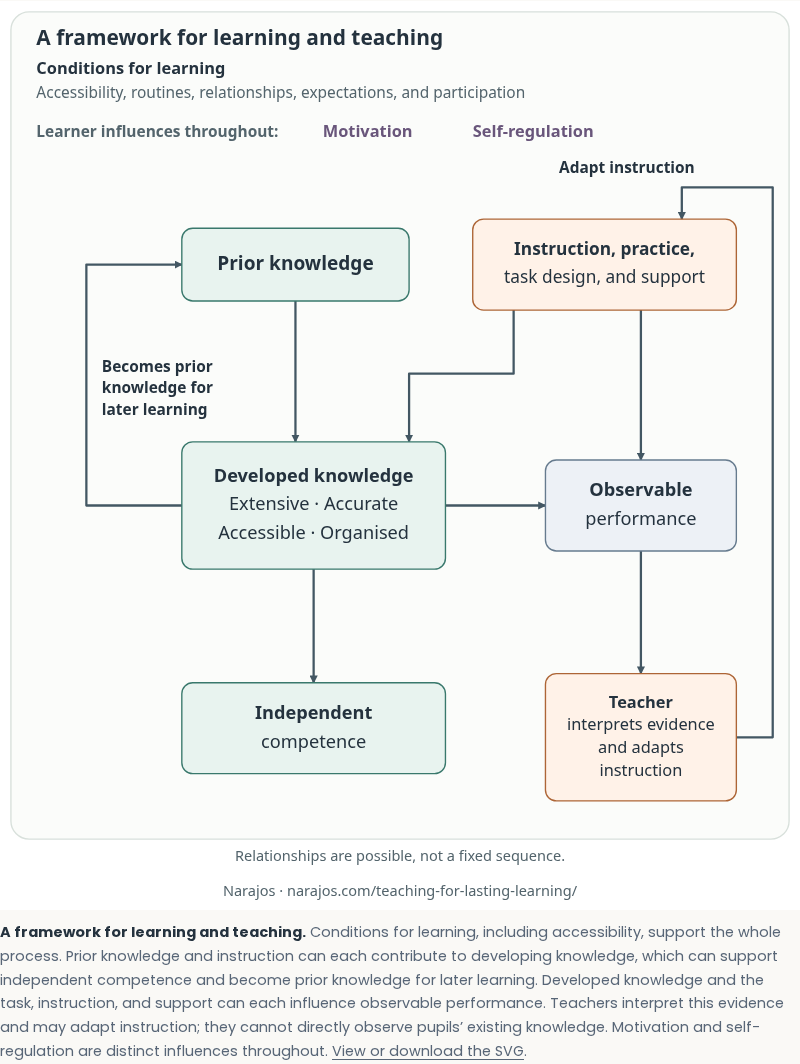
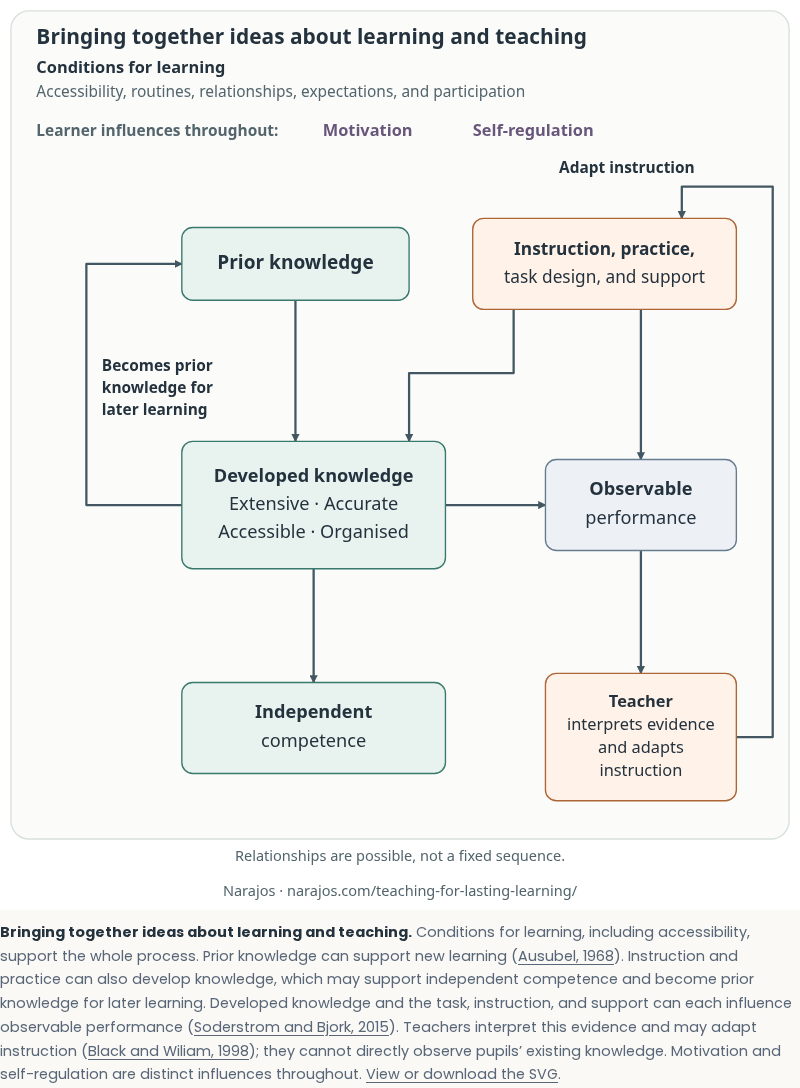
Clarify article voice and diagram attribution

diff --git a/public/teaching-for-lasting-learning/index.html b/public/teaching-for-lasting-learning/index.html
@@ -24,14 +24,14 @@
 <p>An important distinction is that between learning and performance (<a href="#ref-soderstrom">Soderstrom and Bjork, 2015</a>). Pupils may complete a task successfully during a lesson but struggle to do something similar a week later. Equally, pupils who find an activity difficult may still be learning from it.</p>
 <p>I consider four characteristics of knowledge particularly important: how much pupils know, how accurate their knowledge is, how readily they can retrieve it, and how well they can connect different ideas.</p>
 <p>Alongside developing knowledge, I believe teachers have an important role in helping pupils become more independent learners. This involves teaching pupils how to evaluate their understanding, recognise gaps in their knowledge, and make better decisions about how they study.</p>
-<p>Drawing on educational research and my experiences as a teacher, I have developed a framework for understanding how these aspects of learning and teaching interact. I am particularly interested in identifying what is limiting pupils’ learning and where teachers can make the greatest difference.</p>
-<p>The principles presented here inform both my classroom practice and the design of the learning resources on this website. Although many of the same principles apply to independent learning, a website cannot replicate the professional judgement of a classroom teacher.</p>
-<figure class="article-figure" id="figure-performance"><picture><source media="(max-width: 600px)" srcset="/assets/teaching-for-lasting-learning/performance-mobile.svg" width="288" height="620"><img src="/assets/teaching-for-lasting-learning/performance-desktop.svg" width="880" height="390" alt="Learning and task conditions can both influence observable performance."></picture><figcaption><strong>Learning and performance.</strong> What pupils do is observable performance. It can provide evidence of learning, but the task, cues, timing, and support also influence what pupils can show. <a href="/assets/teaching-for-lasting-learning/performance-desktop.svg" aria-label="View or download SVG: Learning and performance">View or download the SVG</a>.</figcaption></figure>
+<p>Drawing on educational research and my experiences as a teacher, I have brought these ideas together to help me think about how different aspects of learning and teaching interact. I am particularly interested in identifying what is limiting pupils’ learning and where teachers can make the greatest difference.</p>
+<p>The eight principles presented here inform both my classroom practice and the design of the learning resources on this website. Although many of the same principles apply to independent learning, a website cannot replicate the professional judgement of a classroom teacher.</p>
+<figure class="article-figure" id="figure-performance"><picture><source media="(max-width: 600px)" srcset="/assets/teaching-for-lasting-learning/performance-mobile.svg" width="288" height="620"><img src="/assets/teaching-for-lasting-learning/performance-desktop.svg" width="880" height="390" alt="Learning and task conditions can both influence observable performance."></picture><figcaption><strong>Learning and performance.</strong> What pupils do is observable performance. It can provide evidence of learning, but the task, cues, timing, and support also influence what pupils can show (<a href="#ref-soderstrom">Soderstrom and Bjork, 2015</a>). <a href="/assets/teaching-for-lasting-learning/performance-desktop.svg" aria-label="View or download SVG: Learning and performance">View or download the SVG</a>.</figcaption></figure>
 
 <section id="framework"><h2>Thinking about learning and teaching together</h2>
-<p>The diagram below is a way of organising my thinking, rather than a model that has itself been tested. It brings together several relationships that matter when I plan and adapt teaching.</p>
+<p>The diagram below brings together established ideas that help me plan and adapt my teaching. Like the other diagrams in this article, it is a simplified illustration of relationships discussed in educational research.</p>
 <p>What pupils already know affects how they make sense of new information. Instruction and practice can develop that knowledge, which then becomes part of the foundation for later learning. Teachers use what pupils say, write, and do as evidence, while recognising that performance is an imperfect guide to learning. Task design and support can also affect what pupils are able to show.</p>
-<figure class="article-figure" id="figure-framework"><picture><source media="(max-width: 600px)" srcset="/assets/teaching-for-lasting-learning/framework-mobile.svg" width="288" height="1168"><img src="/assets/teaching-for-lasting-learning/framework-desktop.svg" width="880" height="1000" alt="Prior knowledge, instruction and practice, developed knowledge, independent competence, observed performance, teacher interpretation, motivation, and self-regulation within conditions for learning."></picture><figcaption><strong>A framework for learning and teaching.</strong> Conditions for learning, including accessibility, support the whole process. Prior knowledge and instruction can each contribute to developing knowledge, which can support independent competence and become prior knowledge for later learning. Developed knowledge and the task, instruction, and support can each influence observable performance. Teachers interpret this evidence and may adapt instruction; they cannot directly observe pupils’ existing knowledge. Motivation and self-regulation are distinct influences throughout. <a href="/assets/teaching-for-lasting-learning/framework-desktop.svg" aria-label="View or download SVG: A framework for learning and teaching">View or download the SVG</a>.</figcaption></figure>
+<figure class="article-figure" id="figure-framework"><picture><source media="(max-width: 600px)" srcset="/assets/teaching-for-lasting-learning/framework-mobile.svg" width="288" height="1192"><img src="/assets/teaching-for-lasting-learning/framework-desktop.svg" width="880" height="1000" alt="Prior knowledge, instruction and practice, developed knowledge, independent competence, observed performance, teacher interpretation, motivation, and self-regulation within conditions for learning."></picture><figcaption><strong>Bringing together ideas about learning and teaching.</strong> Conditions for learning, including accessibility, support the whole process. Prior knowledge can support new learning (<a href="#ref-ausubel">Ausubel, 1968</a>). Instruction and practice can also develop knowledge, which may support independent competence and become prior knowledge for later learning. Developed knowledge and the task, instruction, and support can each influence observable performance (<a href="#ref-soderstrom">Soderstrom and Bjork, 2015</a>). Teachers interpret this evidence and may adapt instruction (<a href="#ref-black">Black and Wiliam, 1998</a>); they cannot directly observe pupils’ existing knowledge. Motivation and self-regulation are distinct influences throughout. <a href="/assets/teaching-for-lasting-learning/framework-desktop.svg" aria-label="View or download SVG: Bringing together ideas about learning and teaching">View or download the SVG</a>.</figcaption></figure>
 <p>The arrows show relationships worth considering, not a fixed teaching sequence or guaranteed outcomes. Conditions for learning support the whole process. Motivation and self-regulation are distinct influences; neither develops in just one way.</p>
 </section>
 <section id="conditions"><h2>Create the conditions for learning</h2>
@@ -54,7 +54,7 @@
 <section id="independence"><h2>Guide pupils towards independence</h2>
 <p>Explicit instruction makes important thinking visible. I can model how to approach a question, explain a decision, and then guide pupils through a similar problem before expecting them to work more independently (<a href="#ref-rosenshine">Rosenshine, 2012</a>).</p>
 <p>Scaffolding is temporary support that helps a learner complete a task they could not yet manage in the same way alone. It might be a prompt, a partially completed example, or a carefully chosen question (<a href="#ref-wood">Wood, Bruner, and Ross, 1976</a>). I can adjust the challenge of a task and the support I provide separately: a demanding problem can be well supported, and a familiar task can be completed independently.</p>
-<figure class="article-figure" id="figure-challenge-support"><picture><source media="(max-width: 600px)" srcset="/assets/teaching-for-lasting-learning/challenge-support-mobile.svg" width="288" height="590"><img src="/assets/teaching-for-lasting-learning/challenge-support-desktop.svg" width="880" height="600" alt="A two-by-two comparison of higher and lower challenge with higher and lower instructional support."></picture><figcaption><strong>Challenge and support.</strong> Supported stretch, independent stretch, supported foundations, and independent consolidation can all be useful. Challenge is relative to a learner’s current knowledge. Accessibility adjustments are not necessarily temporary scaffolds. <a href="/assets/teaching-for-lasting-learning/challenge-support-desktop.svg" aria-label="View or download SVG: Challenge and support">View or download the SVG</a>.</figcaption></figure>
+<figure class="article-figure" id="figure-challenge-support"><picture><source media="(max-width: 600px)" srcset="/assets/teaching-for-lasting-learning/challenge-support-mobile.svg" width="288" height="590"><img src="/assets/teaching-for-lasting-learning/challenge-support-desktop.svg" width="880" height="600" alt="A two-by-two comparison of higher and lower challenge with higher and lower instructional support."></picture><figcaption><strong>Challenge and instructional support.</strong> This illustration considers challenge and instructional support separately, drawing on work about scaffolding and learner expertise (<a href="#ref-wood">Wood, Bruner, and Ross, 1976</a>; <a href="#ref-kalyuga">Kalyuga et al., 2003</a>). Supported stretch, independent stretch, supported foundations, and independent consolidation can all be useful. Challenge is relative to a learner’s current knowledge. Accessibility adjustments are not necessarily temporary scaffolds. <a href="/assets/teaching-for-lasting-learning/challenge-support-desktop.svg" aria-label="View or download SVG: Challenge and instructional support">View or download the SVG</a>.</figcaption></figure>
 <p>Support should be reduced when evidence suggests that it is no longer needed for the learning goal, rather than according to a fixed timetable. Support that helps one learner may become unnecessary or distracting as their knowledge grows (<a href="#ref-kalyuga">Kalyuga et al., 2003</a>). This does not mean withdrawing an accessibility adjustment that a pupil continues to need.</p>
 <p>On Narajos, worked examples, hints, and guided questions are available in some activities. Their purpose is to help learners make progress towards understanding, not to make every task easy.</p>
 </section>
@@ -65,7 +65,7 @@
 </section>
 <section id="responsive"><h2>Check understanding and respond</h2>
 <p>Assessment becomes formative when evidence of learning is used to make a useful decision about what happens next. A question may reveal that several pupils have chosen the correct answer, but it may not reveal whether they understand the reasoning. I therefore look for patterns across answers and consider alternative explanations before deciding whether to move on, revisit, or change the task (<a href="#ref-black">Black and Wiliam, 1998</a>).</p>
-<figure class="article-figure" id="figure-responsive-teaching"><picture><source media="(max-width: 600px)" srcset="/assets/teaching-for-lasting-learning/responsive-teaching-mobile.svg" width="288" height="700"><img src="/assets/teaching-for-lasting-learning/responsive-teaching-desktop.svg" width="880" height="540" alt="A cycle of eliciting evidence, considering explanations, adapting instruction, and rechecking."></picture><figcaption><strong>Responsive teaching.</strong> Elicit evidence, consider possible explanations, adapt instruction, and recheck. Feedback to pupils is one possible response; formative assessment is the use of evidence to inform what happens next. <a href="/assets/teaching-for-lasting-learning/responsive-teaching-desktop.svg" aria-label="View or download SVG: Responsive teaching">View or download the SVG</a>.</figcaption></figure>
+<figure class="article-figure" id="figure-responsive-teaching"><picture><source media="(max-width: 600px)" srcset="/assets/teaching-for-lasting-learning/responsive-teaching-mobile.svg" width="288" height="700"><img src="/assets/teaching-for-lasting-learning/responsive-teaching-desktop.svg" width="880" height="540" alt="A cycle of eliciting evidence, considering explanations, adapting instruction, and rechecking."></picture><figcaption><strong>Responsive teaching.</strong> Eliciting evidence, considering possible explanations, adapting instruction, and rechecking can help teachers use evidence formatively (<a href="#ref-black">Black and Wiliam, 1998</a>). Feedback to pupils is one possible response; formative assessment is the use of evidence to inform what happens next. <a href="/assets/teaching-for-lasting-learning/responsive-teaching-desktop.svg" aria-label="View or download SVG: Responsive teaching">View or download the SVG</a>.</figcaption></figure>
 <p>Making these decisions calls for secure subject knowledge and <em>pedagogical content knowledge</em>: knowledge of how to explain and teach particular ideas, including the difficulties pupils may encounter (<a href="#ref-shulman">Shulman, 1986</a>).</p>
 <p>Feedback is related to assessment, but it is not the same thing. Providing information is only a beginning: pupils need to interpret it, decide what it means, and use it. For feedback to help, they need to understand the goal, recognise something about their current work, and have an opportunity to act (<a href="#ref-sadler">Sadler, 1989</a>; <a href="#ref-butler">Butler and Winne, 1995</a>). The aim is to improve subsequent learning, not merely to correct a completed piece of work. I also need to check whether my response has helped; repeating the same explanation is not always enough.</p>
 <p>In my article <a href="https://my.chartered.college/impact_article/feedback-is-not-a-gift/">“Feedback is not a gift”</a> (<a href="#ref-narajos">2024</a>), I explored pupils’ engagement with feedback in a particular classroom context. It informs my thinking about pupils’ active role in feedback, but it does not establish that one approach will work everywhere. The EEF similarly emphasises the principles and use of feedback, rather than prescribing a single delivery method (<a href="#ref-eef-feedback">EEF, 2021</a>).</p>
@@ -73,7 +73,7 @@
 </section>
 <section id="motivation"><h2>Build motivation through meaningful success</h2>
 <p>Success can help pupils believe that they are capable of making progress. Self-efficacy is a person’s belief about their ability to carry out a particular task or meet a particular challenge; it is more specific than general confidence. Experience of success is one possible influence on that belief, alongside factors such as observing others and receiving feedback (<a href="#ref-bandura">Bandura, 1977</a>).</p>
-<figure class="article-figure" id="figure-success-motivation"><picture><source media="(max-width: 600px)" srcset="/assets/teaching-for-lasting-learning/success-motivation-mobile.svg" width="288" height="820"><img src="/assets/teaching-for-lasting-learning/success-motivation-desktop.svg" width="880" height="540" alt="A conditional, reciprocal relationship between meaningful success, self-efficacy, motivation, engagement, and further learning."></picture><figcaption><strong>Success and motivation.</strong> Meaningful success may support self-efficacy, motivation, engagement, and further learning, which may in turn support future success. Other influences matter at every point; none of these relationships is guaranteed. <a href="/assets/teaching-for-lasting-learning/success-motivation-desktop.svg" aria-label="View or download SVG: Success and motivation">View or download the SVG</a>.</figcaption></figure>
+<figure class="article-figure" id="figure-success-motivation"><picture><source media="(max-width: 600px)" srcset="/assets/teaching-for-lasting-learning/success-motivation-mobile.svg" width="288" height="820"><img src="/assets/teaching-for-lasting-learning/success-motivation-desktop.svg" width="880" height="540" alt="A conditional, reciprocal relationship between meaningful success, self-efficacy, motivation, engagement, and further learning."></picture><figcaption><strong>Success and motivation.</strong> Meaningful success may support self-efficacy (<a href="#ref-bandura">Bandura, 1977</a>), motivation, engagement, and further learning, which may in turn support future success. Other influences matter at every point; none of these relationships is guaranteed. <a href="/assets/teaching-for-lasting-learning/success-motivation-desktop.svg" aria-label="View or download SVG: Success and motivation">View or download the SVG</a>.</figcaption></figure>
 <p>I want pupils to succeed at worthwhile work, not simply accumulate easy correct answers. That may mean providing enough support for a pupil to attempt a demanding explanation, recognising a sound part of an answer, and making the next step clear. It also means checking that the challenge remains appropriate as knowledge develops.</p>
 <p>Success will not automatically produce motivation, and a pupil’s effort or participation should not be explained by motivation alone. Task design, prior knowledge, relationships, accessibility, and circumstances all matter. On Narajos, sequenced questions and feedback are intended to give learners opportunities to recognise progress, without assuming that the same experience will motivate everyone.</p>
 </section>
@@ -95,7 +95,7 @@
 <details class="diagnostic-scenario"><summary>Only a small proportion of pupils participate in questioning</summary><div><p><strong>Possible explanations:</strong> Pupils may need more thinking time; the question or language may be unclear; or the classroom routine may make answering feel risky.</p><p><strong>Checks:</strong> Collect a brief response from everyone using an accessible method. Compare the pattern after individual thinking time or a change in how the question is presented.</p><p><strong>Possible responses:</strong> Give pupils time to prepare an answer and provide more than one way to respond. Clarify the question or model a first step, while remembering that visible participation is not a complete measure of thought.</p></div></details>
 <details class="diagnostic-scenario"><summary>Pupils receive feedback but do not make effective use of it</summary><div><p><strong>Possible explanations:</strong> Pupils may not understand the feedback; they may not know what action to take; or they may lack the time or knowledge needed to act.</p><p><strong>Checks:</strong> Ask pupils to explain the feedback and identify their next step. Review their subsequent work to see what they changed and whether it helped.</p><p><strong>Possible responses:</strong> Model how to use a piece of feedback and give pupils time to act on it. Clarify the intended improvement or reteach the necessary knowledge, then review the result.</p></div></details>
 </section>
-<section class="article-permission" aria-labelledby="using-diagrams"><h2 id="using-diagrams">Using the diagrams</h2><p>Original Narajos diagrams on this page may be used and shared in non-commercial CPD materials, with attribution to Narajos and a link to this article. Other uses remain subject to the <a href="/terms/">Terms of Use</a>.</p></section>
+<section class="article-permission" aria-labelledby="using-diagrams"><h2 id="using-diagrams">Using the diagrams</h2><p>The diagrams illustrate established ideas, with sources linked in the captions. They may be used and shared in non-commercial CPD materials, with attribution to Narajos and a link to this article. Other uses remain subject to the <a href="/terms/">Terms of Use</a>.</p></section>
 <section id="references"><h2>References</h2><ol class="article-references">
 <li id="ref-ausubel">Ausubel, D. P. (1968). <em>Educational Psychology: A Cognitive View</em>. Holt, Rinehart and Winston. <a href="https://search.worldcat.org/title/Educational-psychology-a-cognitive-view/oclc/441295" aria-label="Source for Ausubel, 1968">Source</a>.</li>
 <li id="ref-bandura">Bandura, A. (1977). “Self-efficacy: Toward a unifying theory of behavioral change.” <em>Psychological Review</em>, 84(2), 191–215. <a href="https://doi.org/10.1037/0033-295X.84.2.191" aria-label="Source for Bandura, 1977">Source</a>.</li>
